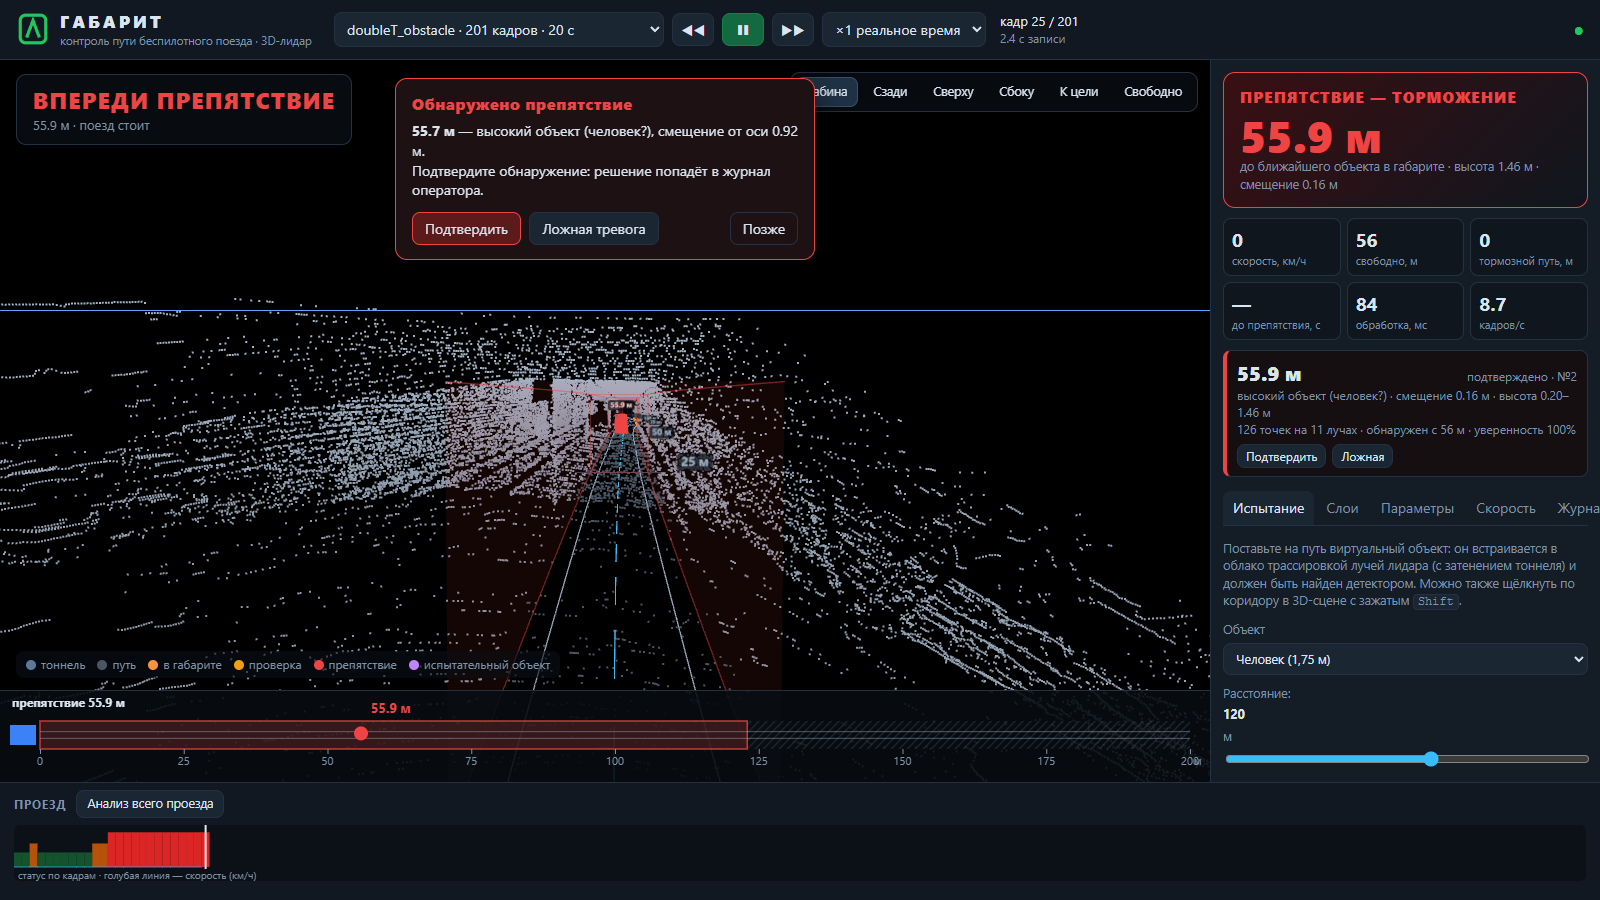
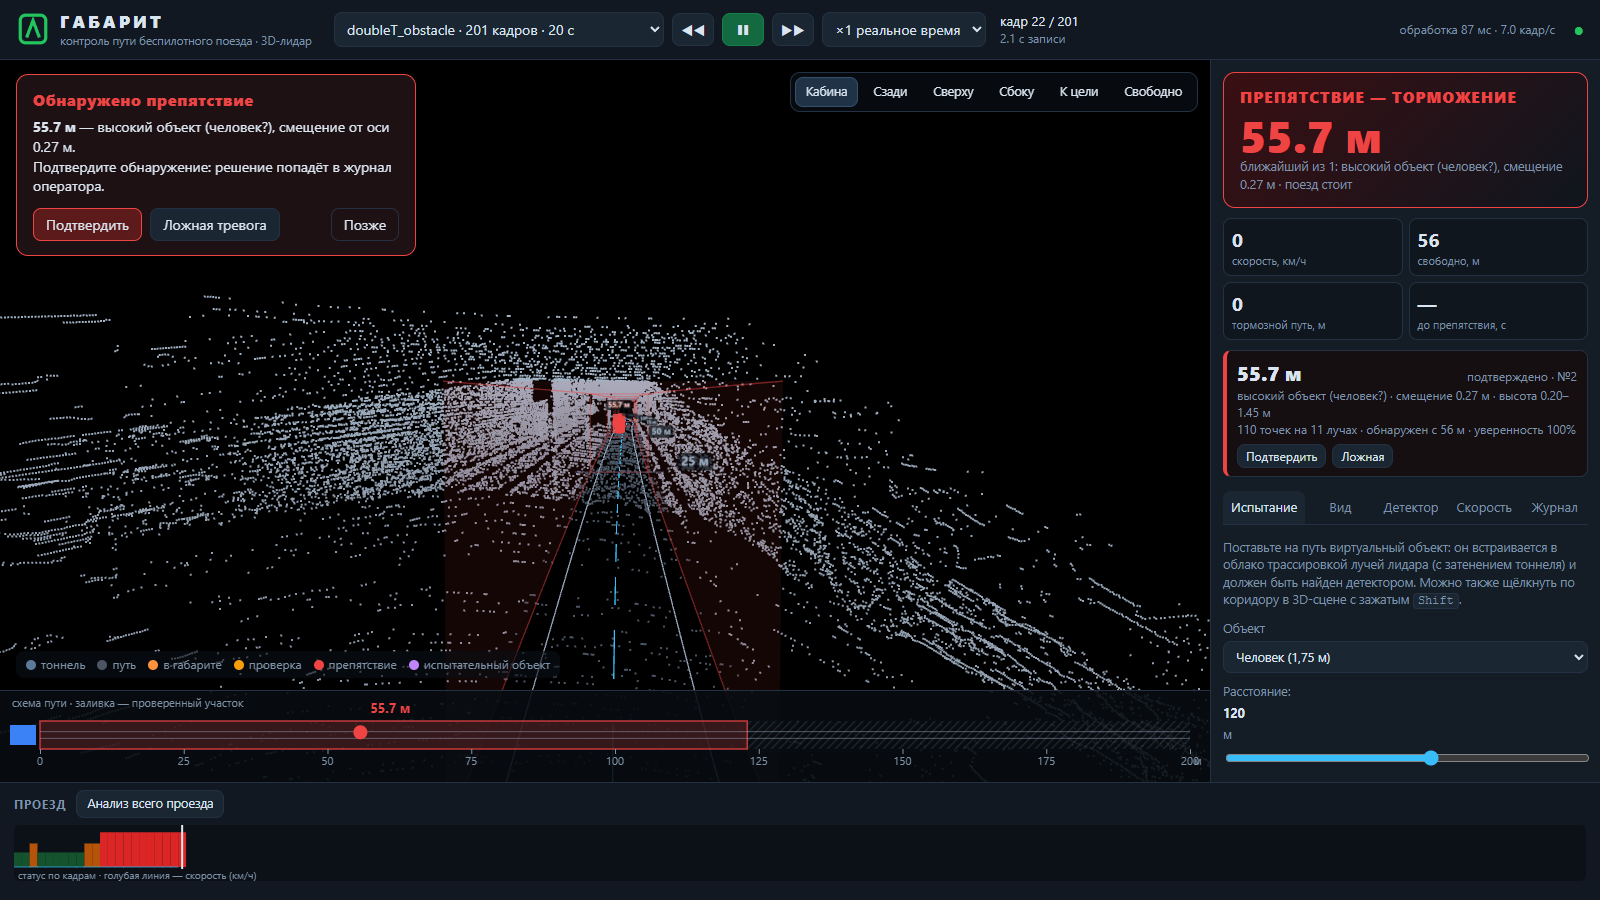
Новые скриншоты интерфейса, окно тревоги следит за объектом
- скриншоты в docs/img и в презентации сняты с нового интерфейса

diff --git a/scripts/record_demo.js b/scripts/record_demo.js
@@ -1,6 +1,7 @@
 // Records the demo video and screenshots of the web interface (needs the
 // server running on :8000 and `npm i playwright-core`).
 //   node scripts/record_demo.js [outDir]
+//   GABARIT_URL=http://127.0.0.1:8010 NO_VIDEO=1 node scripts/record_demo.js artifacts/release_v3
 const fs = require('node:fs');
 const path = require('node:path');
 const { chromium } = require('playwright-core');
@@ -13,8 +14,9 @@ const CHROME = process.env.CHROME || 'C:\\Program Files\\Google\\Chrome\\Applica
   fs.mkdirSync(OUT, { recursive: true });
   const browser = await chromium.launch({ headless: true, executablePath: CHROME,
     args: ['--use-gl=angle', '--enable-webgl', '--ignore-gpu-blocklist'] });
-  const ctx = await browser.newContext({ viewport: { width: 1600, height: 900 }, deviceScaleFactor: 1,
-    recordVideo: { dir: OUT, size: { width: 1600, height: 900 } } });
+  // NO_VIDEO=1: screenshots only (video recording needs Playwright's ffmpeg)
+  const video = process.env.NO_VIDEO ? {} : { recordVideo: { dir: OUT, size: { width: 1600, height: 900 } } };
+  const ctx = await browser.newContext({ viewport: { width: 1600, height: 900 }, deviceScaleFactor: 1, ...video });
   const page = await ctx.newPage();
   page.on('pageerror', (e) => console.log('pageerror', e.message));
   const wait = (ms) => page.waitForTimeout(ms);

diff --git a/web/static/js/main.js b/web/static/js/main.js
@@ -181,7 +181,17 @@ function answer(trackId, verdict) {
   renderObstacles(m);
 }
 
+function toastText(o) {
+  return `<b>${fmt(o.distance_m, 1)} м</b> — ${obKind(o)}, смещение от оси ${fmt(o.lateral_m, 2)} м.<br>Подтвердите обнаружение: решение попадёт в журнал оператора.`;
+}
+
 function maybeToast(m) {
+  if (state.toastFor) {
+    // keep the request in step with its object; drop it once the object is gone
+    const cur = m.obstacles.find((x) => x.track_id === state.toastTrack);
+    if (cur) $('toastBody').innerHTML = toastText(cur);
+    else hideToast();
+  }
   for (const o of m.obstacles) {
     const key = `${state.bag ? state.bag.id : 'live'}#${o.track_id}`;
     if (state.seen.has(key)) continue;
@@ -189,7 +199,7 @@ function maybeToast(m) {
     if (state.answered.has(key)) continue;
     state.toastFor = key;
     state.toastTrack = o.track_id;
-    $('toastBody').innerHTML = `<b>${fmt(o.distance_m, 1)} м</b> — ${obKind(o)}, смещение от оси ${fmt(o.lateral_m, 2)} м.<br>Подтвердите обнаружение: решение попадёт в журнал оператора.`;
+    $('toastBody').innerHTML = toastText(o);
     $('toast').classList.remove('hidden');
     beep();
   }

diff --git a/scripts/build_presentation.py b/scripts/build_presentation.py
@@ -20,7 +20,7 @@ from pptx.chart.data import CategoryChartData
 from pptx.util import Pt
 
 ROOT = Path(__file__).resolve().parents[1]
-IMG = ROOT / "artifacts" / "release_v2"
+IMG = ROOT / "artifacts" / "release_v3"
 TEAM = "[заполняет капитан]"
 
 

diff --git a/README.md b/README.md
@@ -2,7 +2,6 @@
 
 ЛЦТ 2026, задача №5 (Департамент транспорта). Решение отвечает на вопрос: **«Есть ли на пути поезда что-нибудь, чего там быть не должно, и на каком расстоянии?»** — по облакам точек лидара HESAI Pandar128 из записей ROS 2 (bag, sqlite3).
 
-- Работает **без Docker и без ROS**: Python + NumPy, прямое чтение bag-файлов.
 - Веб-интерфейс оператора: 3D-сцена тоннеля с габаритом и препятствиями, «путь свободен на X м» / «препятствие, Y м», подтверждение тревог оператором, испытательные объекты, анализ всего проезда, журнал.
 - Консольный режим: решение по каждому кадру (есть препятствие, расстояние) в терминал и в JSONL.
 - При необходимости — ROS 2 Humble узел (`/gabarit/obstacle`, `/gabarit/distance`, маркеры RViz2) на хосте или в Docker.
